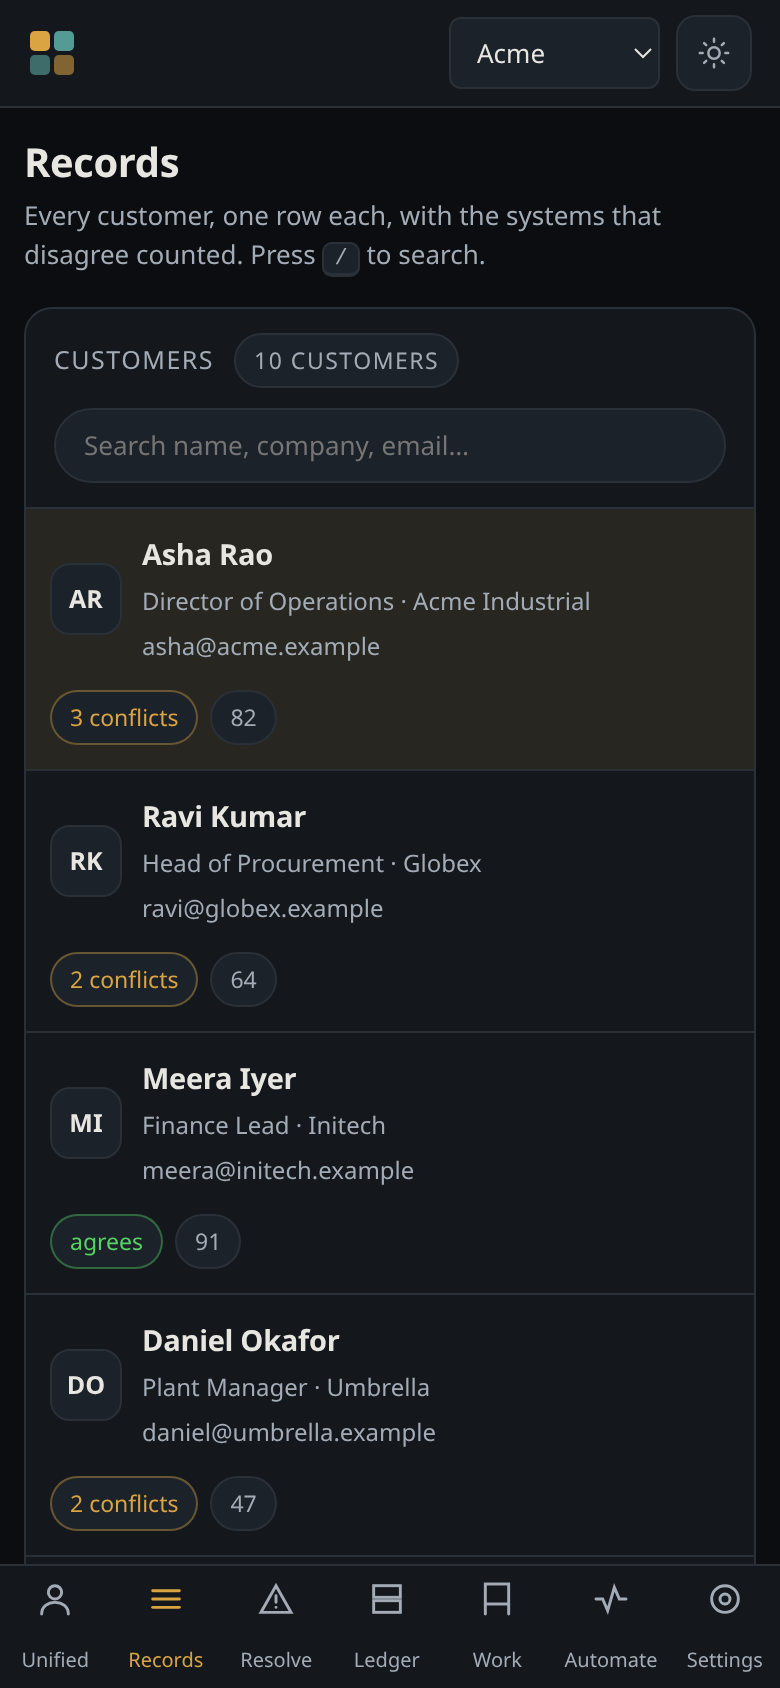
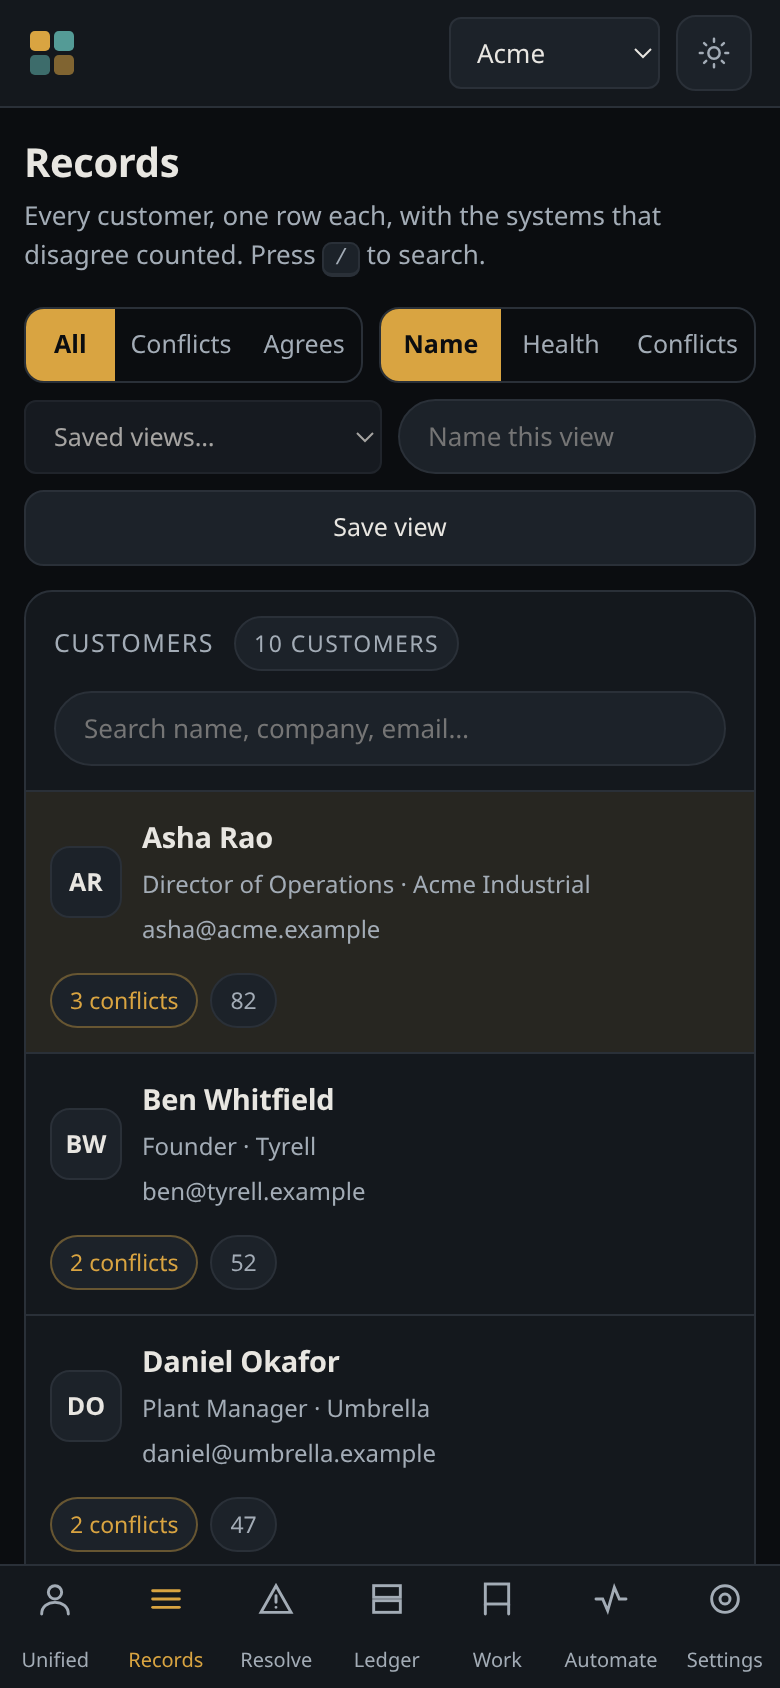
views, export, deep links
- Saved views: filter by conflicts or agreement, sort by name, health or conflict
  count, save the combination under a name. localStorage, restores from a dropdown.
- Export: JSON with full provenance, or CSV. Both write a record.exported event,
  because an export is an action.
- Deep links: #unified/c4 opens that customer, #records opens the list, and a
  Copy link button puts the current URL on the clipboard.

Fixed: the mobile toolbar took four rows and put Save view above the field it
saves - the .search order rule was scoped to the card header, not to every input
with that class.

diff --git a/index.html b/index.html
@@ -98,6 +98,10 @@ button{font:inherit;color:inherit;background:none;border:0;cursor:pointer}
 .search{margin-left:auto;background:var(--raise);color:var(--text);border:1px solid var(--line);
   border-radius:999px;padding:8px 14px;font:inherit;font-size:13px;min-width:220px;max-width:46vw}
 .search:focus{outline:2px solid var(--accent);outline-offset:1px}
+#viewBar{margin-bottom:12px}
+#viewBar .seg button{min-height:36px}
+#viewBar select{background:var(--raise);color:var(--text);border:1px solid var(--line);
+  border-radius:var(--r-sm);padding:8px 10px;font:inherit;font-size:12.5px;max-width:170px}
 .rec{display:grid;grid-template-columns:44px minmax(0,1fr) auto;gap:12px;align-items:center;
   padding:12px 14px;border-top:1px solid var(--line);width:100%;text-align:left;
   min-height:64px;background:none;transition:background var(--fast)}
@@ -234,7 +238,13 @@ a{color:var(--accent)}
   .record .who b{font-size:15.5px}
   .ledger th:nth-child(3),.ledger td:nth-child(3){display:none}
   .card > header{flex-wrap:wrap}
-  .search{margin-left:0;width:100%;max-width:none;order:3}
+  .card > header .search{margin-left:0;width:100%;max-width:none;order:3}
+  #viewBar{gap:8px}
+  #viewBar .seg{flex:1 1 auto}
+  #viewBar .seg button{flex:1;padding:0 8px}
+  #viewBar select{flex:1 1 44%;max-width:none}
+  #viewName{flex:1 1 44%;min-width:0;max-width:none;margin-left:0}
+  #saveView{flex:1 1 44%}
   .rec{grid-template-columns:36px minmax(0,1fr);gap:10px;padding:12px}
   .rec .right{grid-column:1/-1;justify-content:flex-start;margin-top:2px}
 }
@@ -299,7 +309,10 @@ a{color:var(--accent)}
     <section class="view" id="unified" data-active>
       <h1 id="recordName">Asha Rao</h1>
       <p class="sub">One customer, four systems, one record. Every field says where it came from.
-        <button class="rowaction" id="backToList" style="margin-left:8px">All records</button></p>
+        <button class="rowaction" id="backToList" style="margin-left:8px">All records</button>
+        <button class="rowaction" id="exportJson" style="margin-left:6px">Export JSON</button>
+        <button class="rowaction" id="exportCsv" style="margin-left:6px">Export CSV</button>
+        <button class="rowaction" id="copyLink" style="margin-left:6px">Copy link</button></p>
 
       <div class="grid2">
         <div class="card">
@@ -330,6 +343,23 @@ a{color:var(--accent)}
     <section class="view" id="records">
       <h1>Records</h1>
       <p class="sub">Every customer, one row each, with the systems that disagree counted. Press <kbd>/</kbd> to search.</p>
+      <div class="row" id="viewBar">
+        <div class="seg" id="filterSeg" aria-label="Filter">
+          <button data-filter="all" aria-pressed="true">All</button>
+          <button data-filter="conflicts" aria-pressed="false">Conflicts</button>
+          <button data-filter="agrees" aria-pressed="false">Agrees</button>
+        </div>
+        <div class="seg" id="sortSeg" aria-label="Sort">
+          <button data-sort="name" aria-pressed="true">Name</button>
+          <button data-sort="health" aria-pressed="false">Health</button>
+          <button data-sort="conflicts" aria-pressed="false">Conflicts</button>
+        </div>
+        <select id="savedViews" aria-label="Saved views"><option value="">Saved views…</option></select>
+        <input id="viewName" class="search" style="min-width:150px" placeholder="Name this view"
+               aria-label="Name this view" autocomplete="off">
+        <button class="btn small" id="saveView">Save view</button>
+      </div>
+
       <div class="card">
         <header>
           <span>Customers</span>
@@ -696,6 +726,8 @@ function routeScore(terms) {
 const DEFAULT_STATE = {
   selected: "c1",
   query: "",
+  view: { filter: "all", sort: "name" },
+  savedViews: {},
   resolved: {},          // "recordId|field" -> chosen node
   ledger: null,          // [{seq, action, actor, payload, hash, prev}]
   theme: "dark",
@@ -813,15 +845,25 @@ function conflictsIn(record) {
 
 function renderRecords() {
   const query = (state.query || "").trim().toLowerCase();
+  const { filter, sort } = state.view || { filter: "all", sort: "name" };
   const matches = RECORDS.filter(record => {
-    if (!query) return true;
-    const haystack = [record.name, record.company, record.role,
-      ...Object.values(record.fields.email || {}),
-      ...Object.values(record.fields.company || {})].join(" ").toLowerCase();
-    return haystack.includes(query);
+    if (query) {
+      const haystack = [record.name, record.company, record.role,
+        ...Object.values(record.fields.email || {}),
+        ...Object.values(record.fields.company || {})].join(" ").toLowerCase();
+      if (!haystack.includes(query)) return false;
+    }
+    const conflicts = conflictsIn(record);
+    if (filter === "conflicts" && conflicts === 0) return false;
+    if (filter === "agrees" && conflicts > 0) return false;
+    return true;
+  }).sort((a, b) => {
+    if (sort === "health") return b.health - a.health;
+    if (sort === "conflicts") return conflictsIn(b) - conflictsIn(a) || a.name.localeCompare(b.name);
+    return a.name.localeCompare(b.name);
   });
 
-  $("#recordCount").textContent = query
+  $("#recordCount").textContent = (query || filter !== "all")
     ? `${matches.length} of ${RECORDS.length}`
     : `${RECORDS.length} customers`;
 
@@ -1167,15 +1209,119 @@ document.addEventListener("keydown", event => {
 });
 
 /* ---- navigation --------------------------------------------------------- */
-function go(view) {
+function go(view, recordId) {
   $$(".view").forEach(section => section.toggleAttribute("data-active", section.id === view));
   $$("[data-go]").forEach(button => button.setAttribute("aria-current", String(button.dataset.go === view)));
   $("#main").scrollTop = 0;
-  if (location.hash !== "#" + view) history.replaceState(null, "", "#" + view);
+  const target = view === "unified" ? `#unified/${state.selected}` : `#${view}`;
+  if (location.hash !== target) history.replaceState(null, "", target);
+}
+
+function routeFromHash() {
+  const raw = location.hash.replace("#", "");
+  if (!raw) return null;
+  const [view, recordId] = raw.split("/");
+  return { view, recordId };
 }
 
 $$("[data-go]").forEach(button => button.onclick = () => go(button.dataset.go));
 $("#backToList").onclick = () => go("records");
+$$("[data-filter]").forEach(button => button.onclick = () => {
+  state.view.filter = button.dataset.filter;
+  save(); renderRecords(); syncViewBar();
+});
+$$("[data-sort]").forEach(button => button.onclick = () => {
+  state.view.sort = button.dataset.sort;
+  save(); renderRecords(); syncViewBar();
+});
+$("#saveView").onclick = () => {
+  const name = ($("#viewName").value || "").trim();
+  if (!name) { toast("Name the view first"); $("#viewName").focus(); return; }
+  state.savedViews[name] = { ...state.view };
+  $("#viewName").value = "";
+  save(); renderSavedViews(); toast(`Saved view “${name}”`);
+};
+$("#savedViews").onchange = event => {
+  const name = event.target.value;
+  if (!name || !state.savedViews[name]) return;
+  state.view = { ...state.savedViews[name] };
+  save(); renderRecords(); syncViewBar(); toast(`View “${name}”`);
+};
+
+function syncViewBar() {
+  $$("[data-filter]").forEach(button =>
+    button.setAttribute("aria-pressed", String(button.dataset.filter === state.view.filter)));
+  $$("[data-sort]").forEach(button =>
+    button.setAttribute("aria-pressed", String(button.dataset.sort === state.view.sort)));
+}
+
+function renderSavedViews() {
+  const select = $("#savedViews");
+  const names = Object.keys(state.savedViews || {});
+  select.innerHTML = `<option value="">Saved views…</option>` +
+    names.map(name => `<option value="${name}">${name}</option>`).join("");
+  select.disabled = names.length === 0;
+}
+
+/* ---- export and deep links --------------------------------------------- */
+function download(filename, text, type) {
+  const blob = new Blob([text], { type });
+  const url = URL.createObjectURL(blob);
+  const link = document.createElement("a");
+  link.href = url;
+  link.download = filename;
+  document.body.appendChild(link);
+  link.click();
+  link.remove();
+  setTimeout(() => URL.revokeObjectURL(url), 1000);
+}
+
+function unifiedPayload() {
+  const record = activeRecord();
+  return {
+    id: record.id,
+    name: record.name,
+    role: record.role,
+    company: record.company,
+    relationship_health: record.health,
+    exported_at: new Date().toISOString(),
+    fields: Object.fromEntries(Object.keys(record.fields).map(field => {
+      const chosen = currentValue(field);
+      return [field, { value: chosen.value, source: chosen.node, rule: chosen.rule }];
+    })),
+    conflicts_open: Object.keys(record.fields).filter(isConflict),
+  };
+}
+
+$("#exportJson").onclick = () => {
+  const payload = unifiedPayload();
+  download(`tessera-${payload.id}.json`, JSON.stringify(payload, null, 2), "application/json");
+  appendEvent("record.exported", "human", { record: payload.id, format: "json" });
+  toast("Exported as JSON");
+};
+
+$("#exportCsv").onclick = () => {
+  const payload = unifiedPayload();
+  const fields = Object.keys(payload.fields);
+  const head = ["id", "name", ...fields, "conflicts_open"].join(",");
+  const row = [payload.id, `"${payload.name}"`,
+    ...fields.map(field => `"${String(payload.fields[field].value).replace(/"/g, '""')}"`),
+    payload.conflicts_open.length].join(",");
+  download(`tessera-${payload.id}.csv`, head + "\n" + row + "\n", "text/csv");
+  appendEvent("record.exported", "human", { record: payload.id, format: "csv" });
+  toast("Exported as CSV");
+};
+
+$("#copyLink").onclick = async () => {
+  const url = `${location.origin}${location.pathname}#unified/${state.selected}`;
+  try {
+    await navigator.clipboard.writeText(url);
+    toast("Link copied");
+  } catch {
+    toast(url);
+  }
+};
+
 $("#search").oninput = event => {
   state.query = event.target.value;
   save();
@@ -1298,8 +1444,20 @@ document.addEventListener("keydown", event => {
   RECORD = record.fields;
   ACTIVITY = record.activity;
   renderAll();
-  const hash = location.hash.replace("#", "");
-  if (hash) go(hash);
+  const route = routeFromHash();
+  if (route) {
+    if (route.recordId && RECORDS.some(r => r.id === route.recordId)) {
+      state.selected = route.recordId;
+      const record = activeRecord();
+      RECORD = record.fields;
+      ACTIVITY = record.activity;
+      save();
+      renderAll();
+    }
+    if (document.getElementById(route.view)) go(route.view);
+  }
+  syncViewBar();
+  renderSavedViews();
   if ("serviceWorker" in navigator && location.protocol.startsWith("http")) {
     navigator.serviceWorker.register("sw.js").catch(() => {});
   }

diff --git a/ENHANCEMENTS.md b/ENHANCEMENTS.md
@@ -12,16 +12,16 @@ Ordered by what a person would notice first.
 | # | Enhancement | Why it matters | Effort |
 |---|---|---|---|
 | 1 | ~~**Real record search**~~ — a `/` search over all records with keyboard selection | **Shipped in 1.2.0.** Ten records, `/` to search, Enter to open | done |
-| 2 | **Multi-record list** — shipped in 1.2.0. **Saved views** (filter, sort, save, restore) still open | Turns the console from a showcase into something you would open on a Monday | M |
+| 2 | ~~**Multi-record list with saved views**~~ — list in 1.2.0, filter/sort/save in 1.4.0 | Turns the console from a showcase into something you would open on a Monday | done |
 | 3 | ~~**Bulk resolve**~~ — apply one rule to every conflict of the same kind | **Shipped in 1.3.0.** One button, engine's rule, undoable | done |
 | 4 | ~~**Field history popover**~~ — click any value, see every write with actor and time | **Shipped in 1.1.0.** The ledger is the differentiator; hiding it behind a tab wasted it | done |
 | 5 | **Conflict preview before merge** — a diff of what changes if you accept a rule | Turns a guess into a decision | S |
 | 6 | **Connector status strip** — per system: last sync, error count, staleness | The one screen an operator actually needs at 9am | S |
 | 7 | **CSV import with dry run** — map, preview, commit, roll back | The single most requested feature of every CRM migration | M |
 | 8 | **Saved resolver rules** — "always take NetSuite for amounts" as a stored policy | Repeated decisions should become policy, not habit | M |
-| 9 | **Export the unified record** — JSON, CSV, and a printable one-pager | People need to send the record to somebody who is not in the app | S |
+| 9 | ~~**Export the unified record**~~ — JSON and CSV shipped in 1.4.0. **Printable one-pager** still open | People need to send the record to somebody who is not in the app | S |
 | 10 | **Keyboard-first command palette** — `⌘K` with actions, not just navigation | The power users are the ones who will keep it open | S |
-| 11 | **Deep links** — `#unified/contact/123` opens that record | Makes the app shareable in Slack, which is how tools spread | S |
+| 11 | ~~**Deep links**~~ — `#unified/c4` and a Copy link button, shipped in 1.4.0 | Makes the app shareable in Slack, which is how tools spread | done |
 | 12 | **Notes and mentions** — a comment thread per record, stored locally | A record without a conversation is a report | M |
 | 13 | **Assign to me** — a one-tap self-assign that logs a ledger event | The most common action in any support tool | S |
 | 14 | **Undo** — shipped for resolve and bulk resolve in 1.3.0. **Still to do:** assign, escalate, workflow fire | Undo by compensating event is the ledger's superpower and nothing used it | M |

diff --git a/README.md b/README.md
@@ -38,8 +38,8 @@ shows **where every value came from**, and records the whole thing in a hash cha
 
 | Screen | What it does |
 |---|---|
-| **Records** | Ten customers, one row each, with the systems that disagree counted. `/` searches by name, company or email; Enter opens the first hit. |
-| **Unified** | One record. Every field names the system it came from and the rule that chose it. Click any value for its full write history. Conflicting fields are flagged in place. |
+| **Records** | Ten customers, one row each, with the systems that disagree counted. `/` searches, filter by conflicts, sort by health, and save the view you use every morning. |
+| **Unified** | One record. Every field names the system it came from and the rule that chose it. Click any value for its write history; export the record as JSON or CSV; copy a link that opens it. |
 | **Resolve** | Both values, both trust scores, and the rule the engine would apply. Choose one, or **resolve all** with the engine's rule. Every choice is logged and every choice can be undone. |
 | **Ledger** | Every event, SHA-256 chained. **Verify chain** recomputes it locally. **Tamper** proves the verification works. An undo is a new event, never a deleted one. |
 | **Workforce** | Work goes to a position, not a person. The router shows its term-by-term arithmetic. Escalation produces a signed handoff packet. |
@@ -95,6 +95,7 @@ Installed, it runs with the network switched off. The service worker caches the 
 | Contrast | every text pair measured at **≥ 4.5:1** in both themes |
 | Touch targets | **44px** minimum; the rail becomes a bottom bar under 860px |
 | Keyboard | **1–7** switch sections, **/** searches, **T** toggles theme, full focus rings |
+| Deep links | `#unified/c4` opens that customer; `#records` opens the list |
 | Motion | honours `prefers-reduced-motion` |
 | Network | none after first load; no analytics, no fonts, no CDN |
 

diff --git a/CHANGELOG.md b/CHANGELOG.md
@@ -1,5 +1,21 @@
 # Changelog
 
+## [1.4.0] - 2026-11-14
+
+### Added
+
+- **Saved views.** Filter the list by conflicts or agreement, sort by name, health or conflict count, and save the
+  combination under a name. Saved views live in `localStorage` and restore from the dropdown.
+- **Export.** The unified record downloads as JSON with full provenance, or as CSV for a spreadsheet. Both write a
+  `record.exported` event, because an export is an action.
+- **Deep links.** `#unified/c4` opens that customer, `#records` opens the list, and a **Copy link** button puts the
+  current one on the clipboard. The hash updates as you move.
+
+### Fixed
+
+- The mobile toolbar took four rows and put "Save view" above the field it saves. The `.search` order rule was
+  scoped to the card header and the toolbar now fits three compact rows.
+
 ## [1.3.0] - 2026-11-14
 
 ### Added
